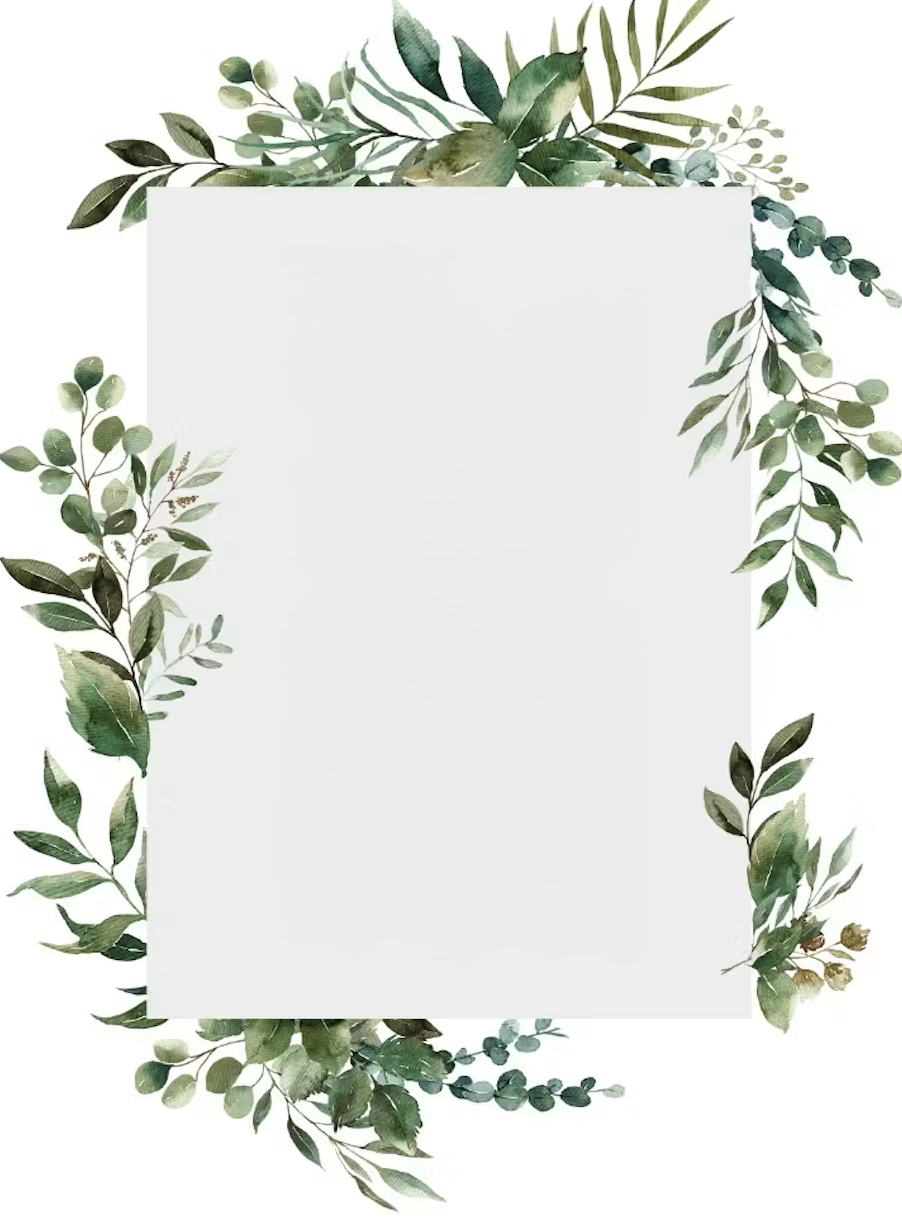
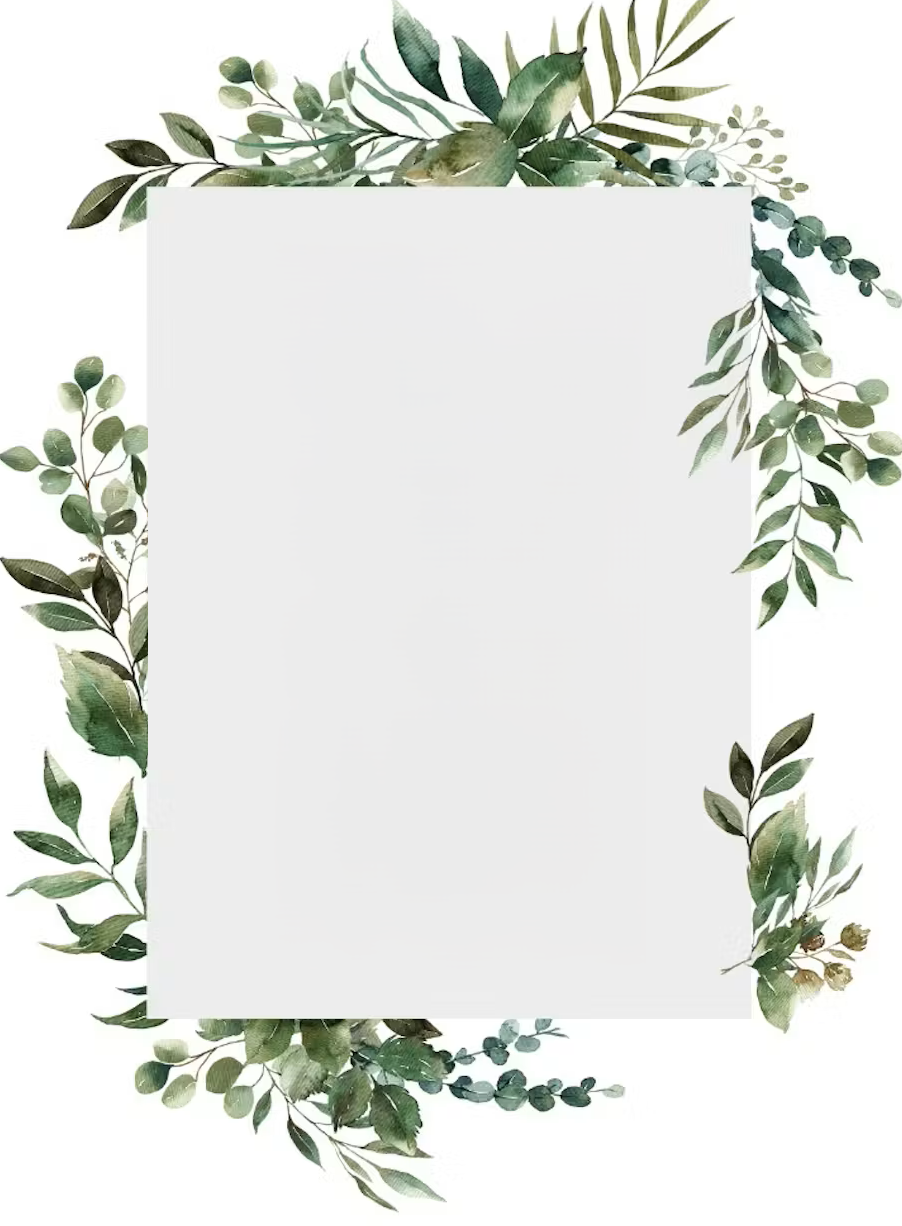
fixed mobile view and hero images

Changed region(s): [[0.1552, 0.3409, 0.2483, 0.5889]]

diff --git a/script.js b/script.js
@@ -3,41 +3,10 @@ document.addEventListener("DOMContentLoaded", () => {
     const musicControl = document.getElementById("music-control");
     const backgroundMusic = document.getElementById("background-music");
     const weddingDate = new Date('March 26, 2026 18:00:00').getTime();
-// --- КӨП КЕЗЕҢДІ ЖАЙЛЫ СКРОЛЛ (STORYTELLING) ---
-    const storyPoints = [
-        { selector: 'h1', delay: 3000 },                      // Мағжан & Аяжан (3 сек күту)
-        { selector: '.mt-5', delay: 3000 },                   // Құрметті қонақтар!
-        { selector: '.text_3', delay: 4000 },                  // Шақыру мәтіні
-        { selector: '.date-top', delay: 3500 },                // 26 Наурыз 2026
-        { selector: '.owner-names', delay: 3000 },             // Той иелері
-        { selector: '.mt-5 h3 strong', delay: 3000 },          // Өтетін орны
-        { selector: '.rsvp-box p', delay: 3000 },              // Растауыңызды сұраймыз
-        { selector: '.rsvp-box', delay: 0 }                    // Есім жазатын жер (соңғы аялдама)
-    ];
 
-    async function startStoryScroll() {
-        // Сайт ашылғанда сәл күту (2 секунд)
-        await new Promise(resolve => setTimeout(resolve, 2000));
+    // --- 1. АВТОМАТТЫ СКРОЛЛ (STORYTELLING) АЛЫП ТАСТАЛДЫ ---
+    // Сайт енді ашылғанда ең басында тұрады.
 
-        for (const point of storyPoints) {
-            const element = document.querySelector(point.selector);
-            if (element) {
-                // Экранды элементке қарай баяу жылжыту
-                element.scrollIntoView({
-                    behavior: 'smooth',
-                    block: 'center'
-                });
-                
-                // Егер келесі қадам болса, көрсетілген уақыттай күту
-                if (point.delay > 0) {
-                    await new Promise(resolve => setTimeout(resolve, point.delay));
-                }
-            }
-        }
-    }
-
-    // Скроллды іске қосу
-    startStoryScroll();
     // --- 2. МУЗЫКА ЛОГИКАСЫ ---
     const forcePlay = () => {
         backgroundMusic.play().then(() => {
@@ -46,9 +15,6 @@ document.addEventListener("DOMContentLoaded", () => {
             console.log("Автоматты ойнатуды браузер күтуде...");
         });
     };
-
-    // Алғашқы әрекетте музыканы қосу
-    forcePlay();
 
     const playOnInteraction = () => {
         if (backgroundMusic.paused && !musicControl.classList.contains('manual-paused')) {
@@ -93,7 +59,6 @@ document.addEventListener("DOMContentLoaded", () => {
 async function sendRSVP(answer) {
     const nameInput = document.getElementById('guestName');
     const name = nameInput.value.trim();
-    // HTML-де ID болуы керек: id="btn-yes" және id="btn-no"
     const btnYes = document.getElementById('btn-yes');
     const btnNo = document.getElementById('btn-no');
 
@@ -133,7 +98,6 @@ async function sendRSVP(answer) {
 function generateInvitation(name) {
     const container = document.createElement('div');
     
-    // Дизайн параметрлері
     Object.assign(container.style, {
         width: '600px',
         height: '900px',
@@ -158,7 +122,7 @@ function generateInvitation(name) {
     container.innerHTML = `
         <div style="margin-top: 50px;">
             <h1 style="font-size: 36px; font-weight: bold; margin-bottom: 10px;">Мағжан & Аяжан</h1>
-            <div style="width: 150px; height: 2px; background: #d4af37; margin: 10px auto 30px;"></div>
+            <div style="width: 150px; height: 2px; background: #0b1a0d; margin: 10px auto 30px;"></div>
             <p style="font-size: 24px; line-height: 1.4; padding: 0 40px; margin-bottom: 30px;">
                 Құрметті <b>${name}</b>, <br>
                 Сізді Мағжан мен Аяжанның үйлену тойына арналған салтанатты дастарханымыздың қадірлі қонағы болуларыңызға шақырамыз.
@@ -166,10 +130,10 @@ function generateInvitation(name) {
             <div style="font-size: 22px; font-weight: bold; margin-bottom: 10px;">
                 26 НАУРЫЗ 2026
             </div>
-            <div style="font-size: 18px; font-weight: bold;">
+            <div style="font-size: 22   px; font-weight: bold;">
                 БЕТАШАР: 17:00 | ТОЙ: 18:00
             </div>
-            <div style="margin-top: 40px; font-size: 20px;">
+            <div style="margin-top: 40px; font-size: 22px;">
                 <p><strong>Той иелері:</strong> Марат & Айнагүл</p>
                 <p><strong>Мекен-жайы:</strong> Тараз қ., <br> "Хан сарай" рестораны</p>
             </div>
@@ -193,7 +157,7 @@ function generateInvitation(name) {
         if (invContainer) {
             invContainer.style.display = 'block';
             
-            // СУРЕТ ДАЙЫН БОЛҒАНДА ТӨМЕНГЕ СКРОЛЛ ЖАСАУ
+            // Тек шақырту дайын болғанда ғана төменге скролл жасайды
             setTimeout(() => {
                 invContainer.scrollIntoView({ behavior: 'smooth', block: 'start' });
             }, 600);
